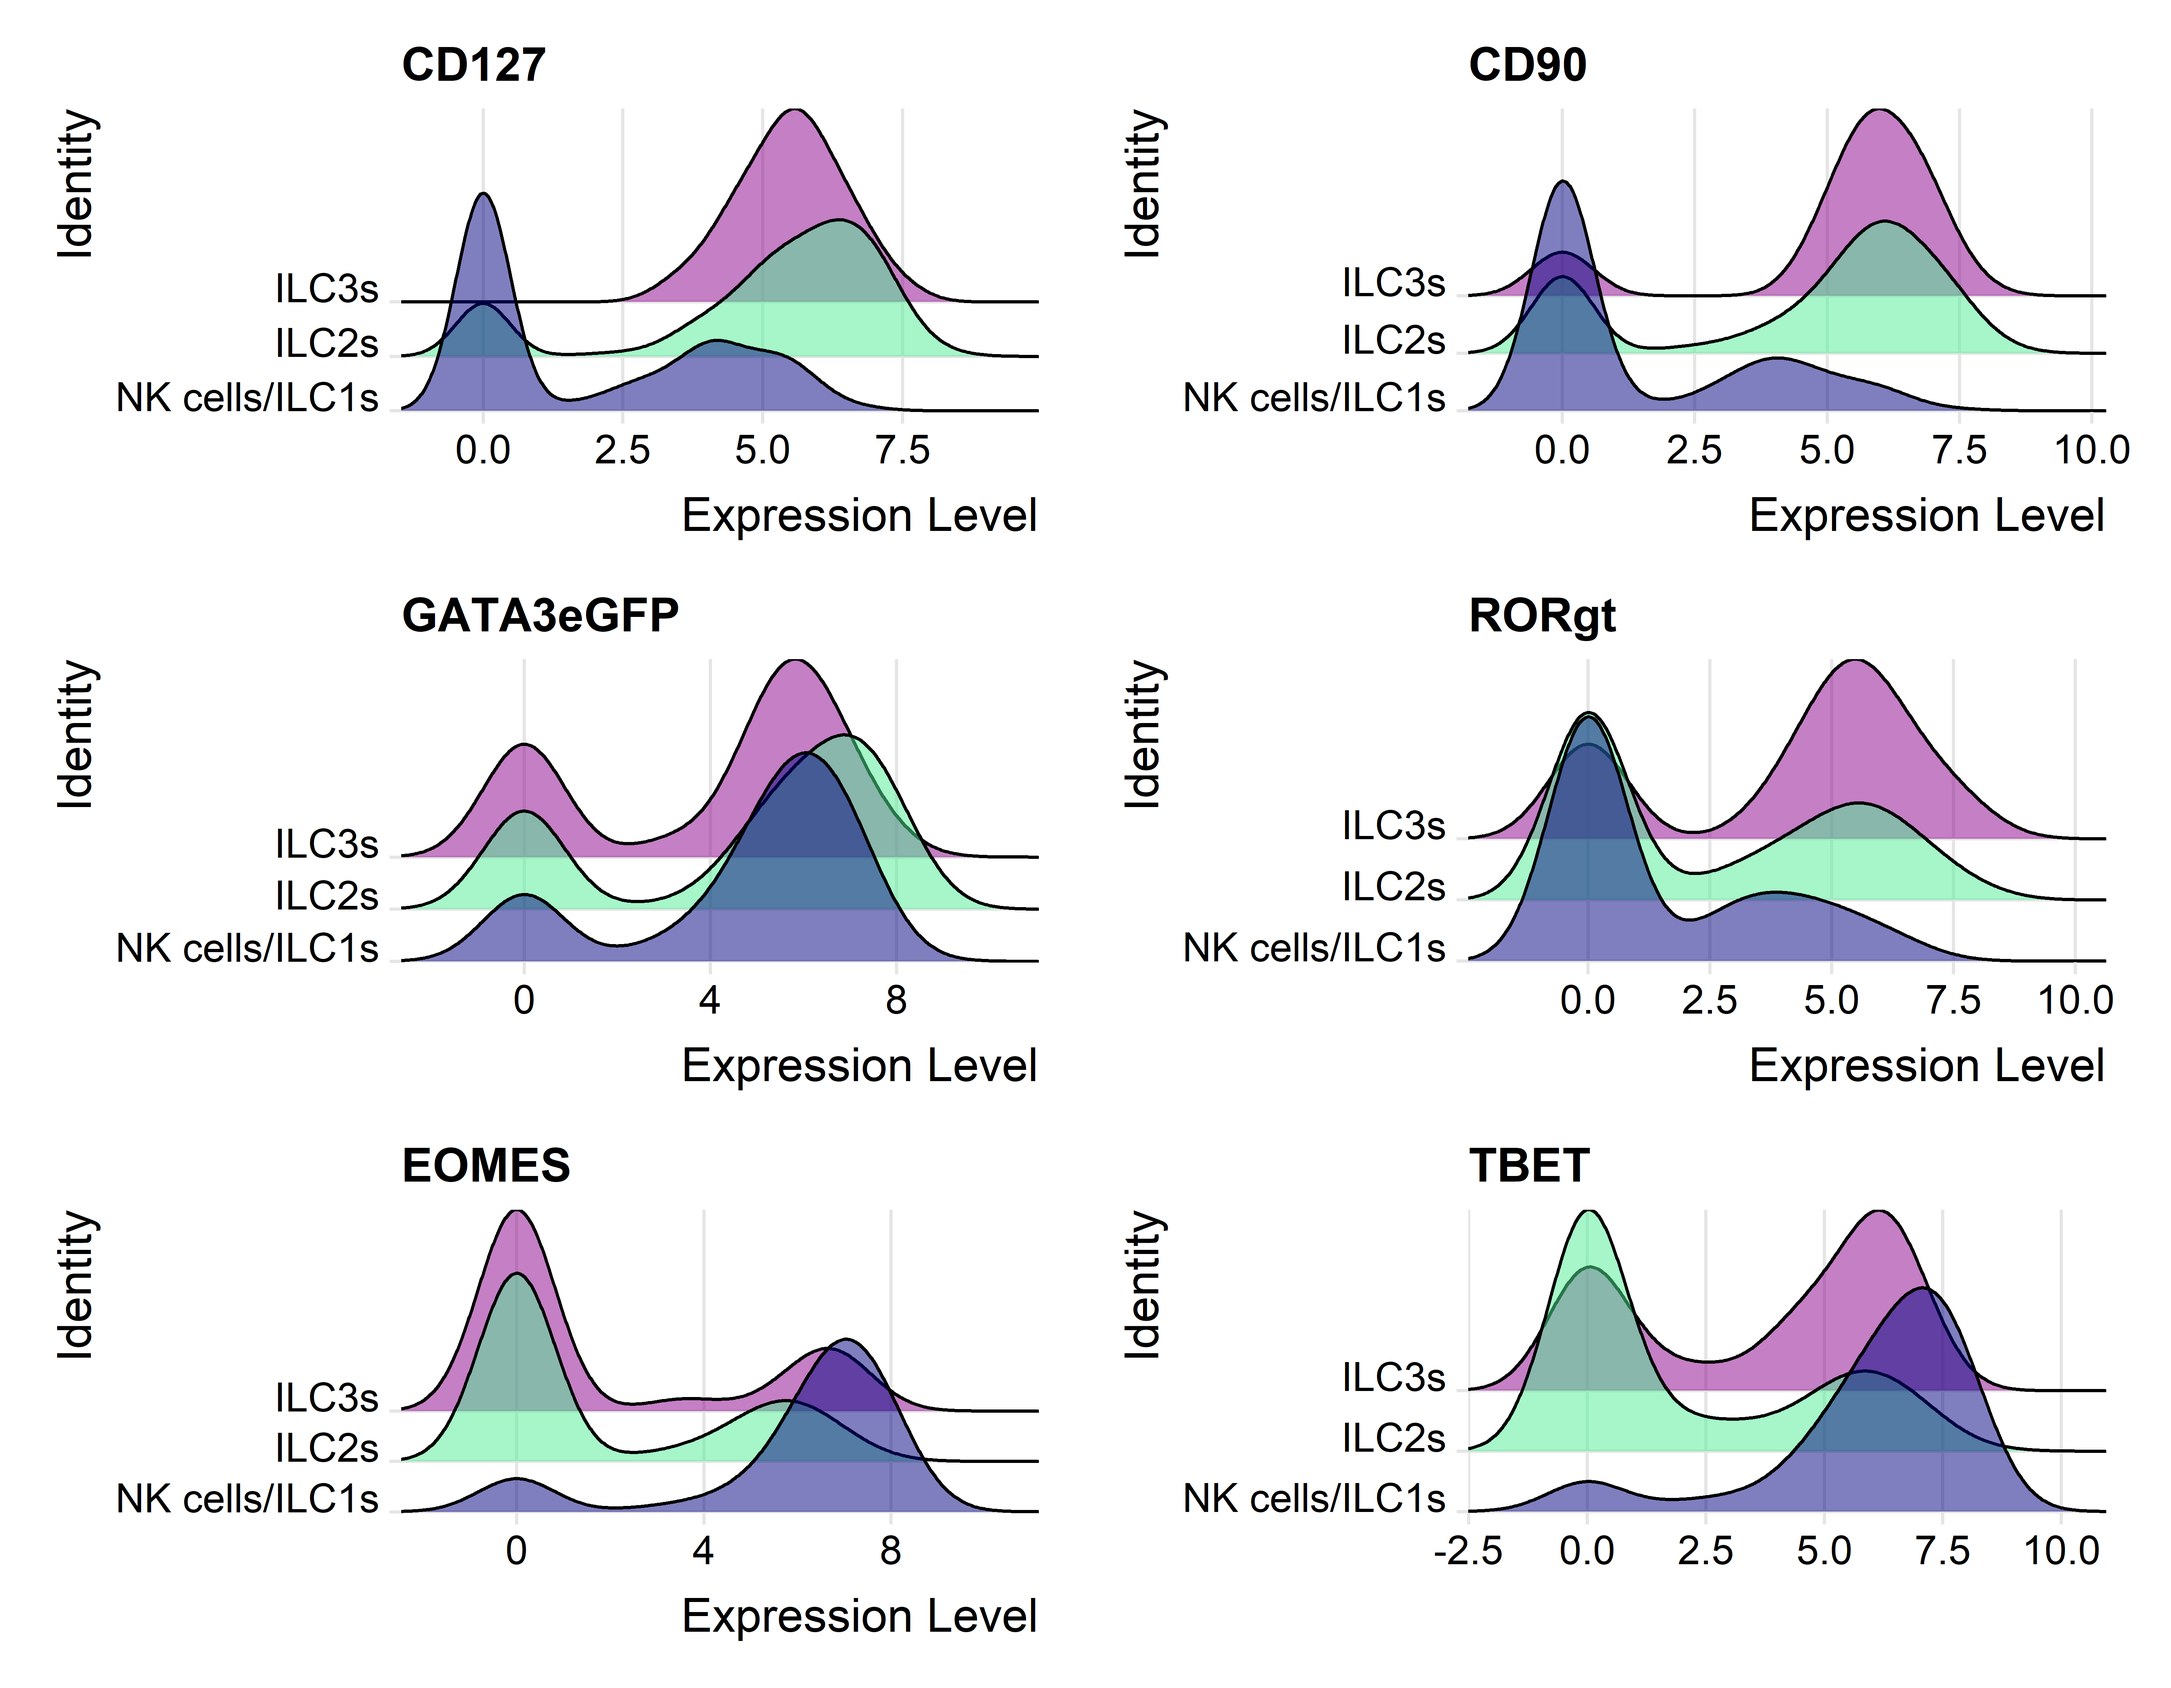
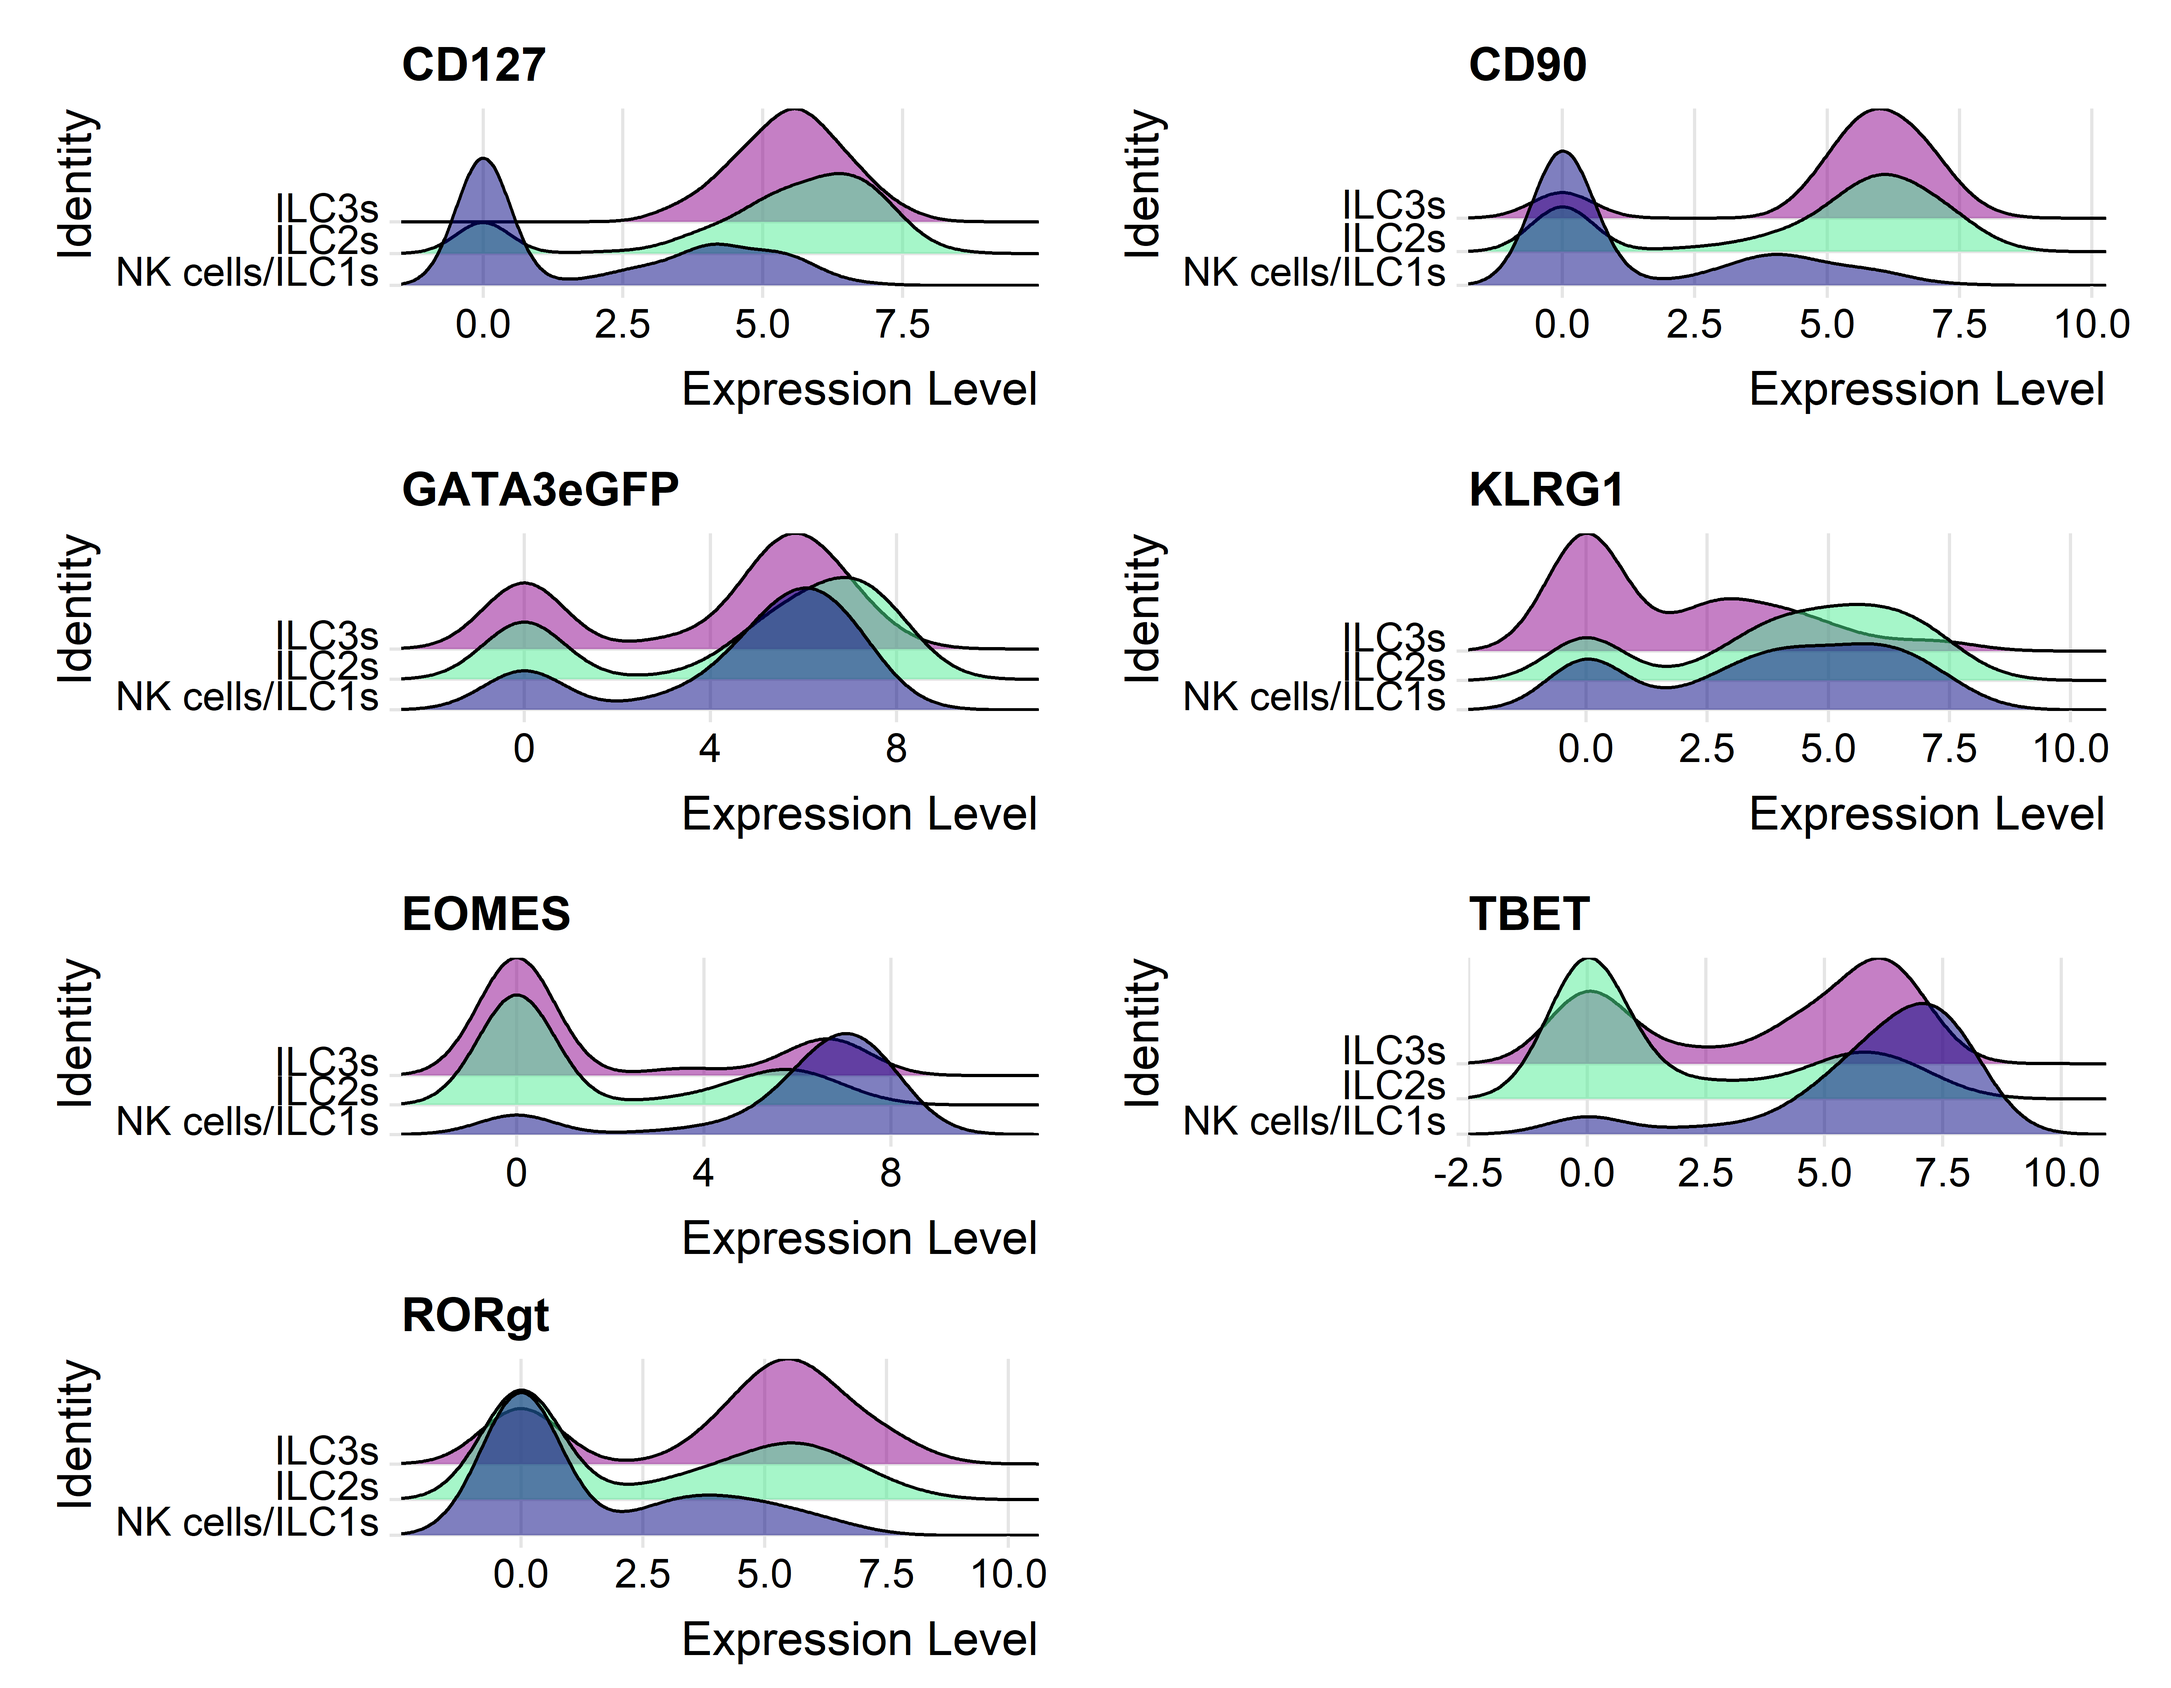
Tested other features depicted for ILCs. knitted rmd file

diff --git a/2_visualizations_for_figures/Fig_3_ILCs_in_lung.md b/2_visualizations_for_figures/Fig_3_ILCs_in_lung.md
@@ -1,7 +1,7 @@
 ---
 title: "Figure 3: Immune cells and ILCs in lung"
 author: "Sandy Kroh"
-date: "May 16, 2025"
+date: "May 20, 2025"
 output:
   html_document:
     toc: yes
@@ -155,7 +155,7 @@ dot_plot
 
 ``` r
 ridge_plot <- RidgePlot(subset(SO.lung, subset = AL3 == c("NK cells/ILC1s", "ILC2s", "ILC3s")), 
-          features = c("CD127", "CD90","GATA3eGFP",  "RORgt", "EOMES", "TBET"),
+          features = c("CD127", "CD90","GATA3eGFP", "KLRG1", "EOMES", "TBET",  "RORgt"),
           group.by = "AL3", ncol = 2, same.y.lims = TRUE, assay = "MELC", layer = "counts",
           cols = alpha(c(
             "navy",
@@ -168,6 +168,20 @@ ridge_plot
 ```
 
 <img src="Fig_3_ILCs_in_lung_files/figure-html/unnamed-chunk-5-1.png" width="100%" style="display: block; margin: auto;" />
+
+``` r
+RidgePlot(subset(SO.lung, subset = AL3 == c("NK cells/ILC1s", "ILC2s", "ILC3s")), 
+          features = c("CD127", "CD90","GATA3eGFP",  "KLRG1", "EOMES", "TBET", "NKp46", "RORgt"),
+          group.by = "AL3", ncol = 3, same.y.lims = TRUE, assay = "MELC", layer = "counts", y.max = 10, log = TRUE, 
+          cols = alpha(c(
+            "navy",
+            "seagreen2",
+            "darkmagenta"
+          ), 0.5))+
+  theme(plot.margin = margin(0, 0, 0, 0, "cm"))
+```
+
+<img src="Fig_3_ILCs_in_lung_files/figure-html/unnamed-chunk-5-2.png" width="100%" style="display: block; margin: auto;" />
 
 ## IF overlays
 
@@ -437,7 +451,7 @@ ilc3
 
 
 ``` r
-if_plots <- ggarrange(ilc1, ilc2, ilc3, ncol = 2, nrow = 2, labels = c( "C", "D", "E"))
+if_plots <- ggarrange(ilc2, ilc1, ilc3, ncol = 2, nrow = 2, labels = c( "C", "D", "E"))
 
 if_plots
 ```
